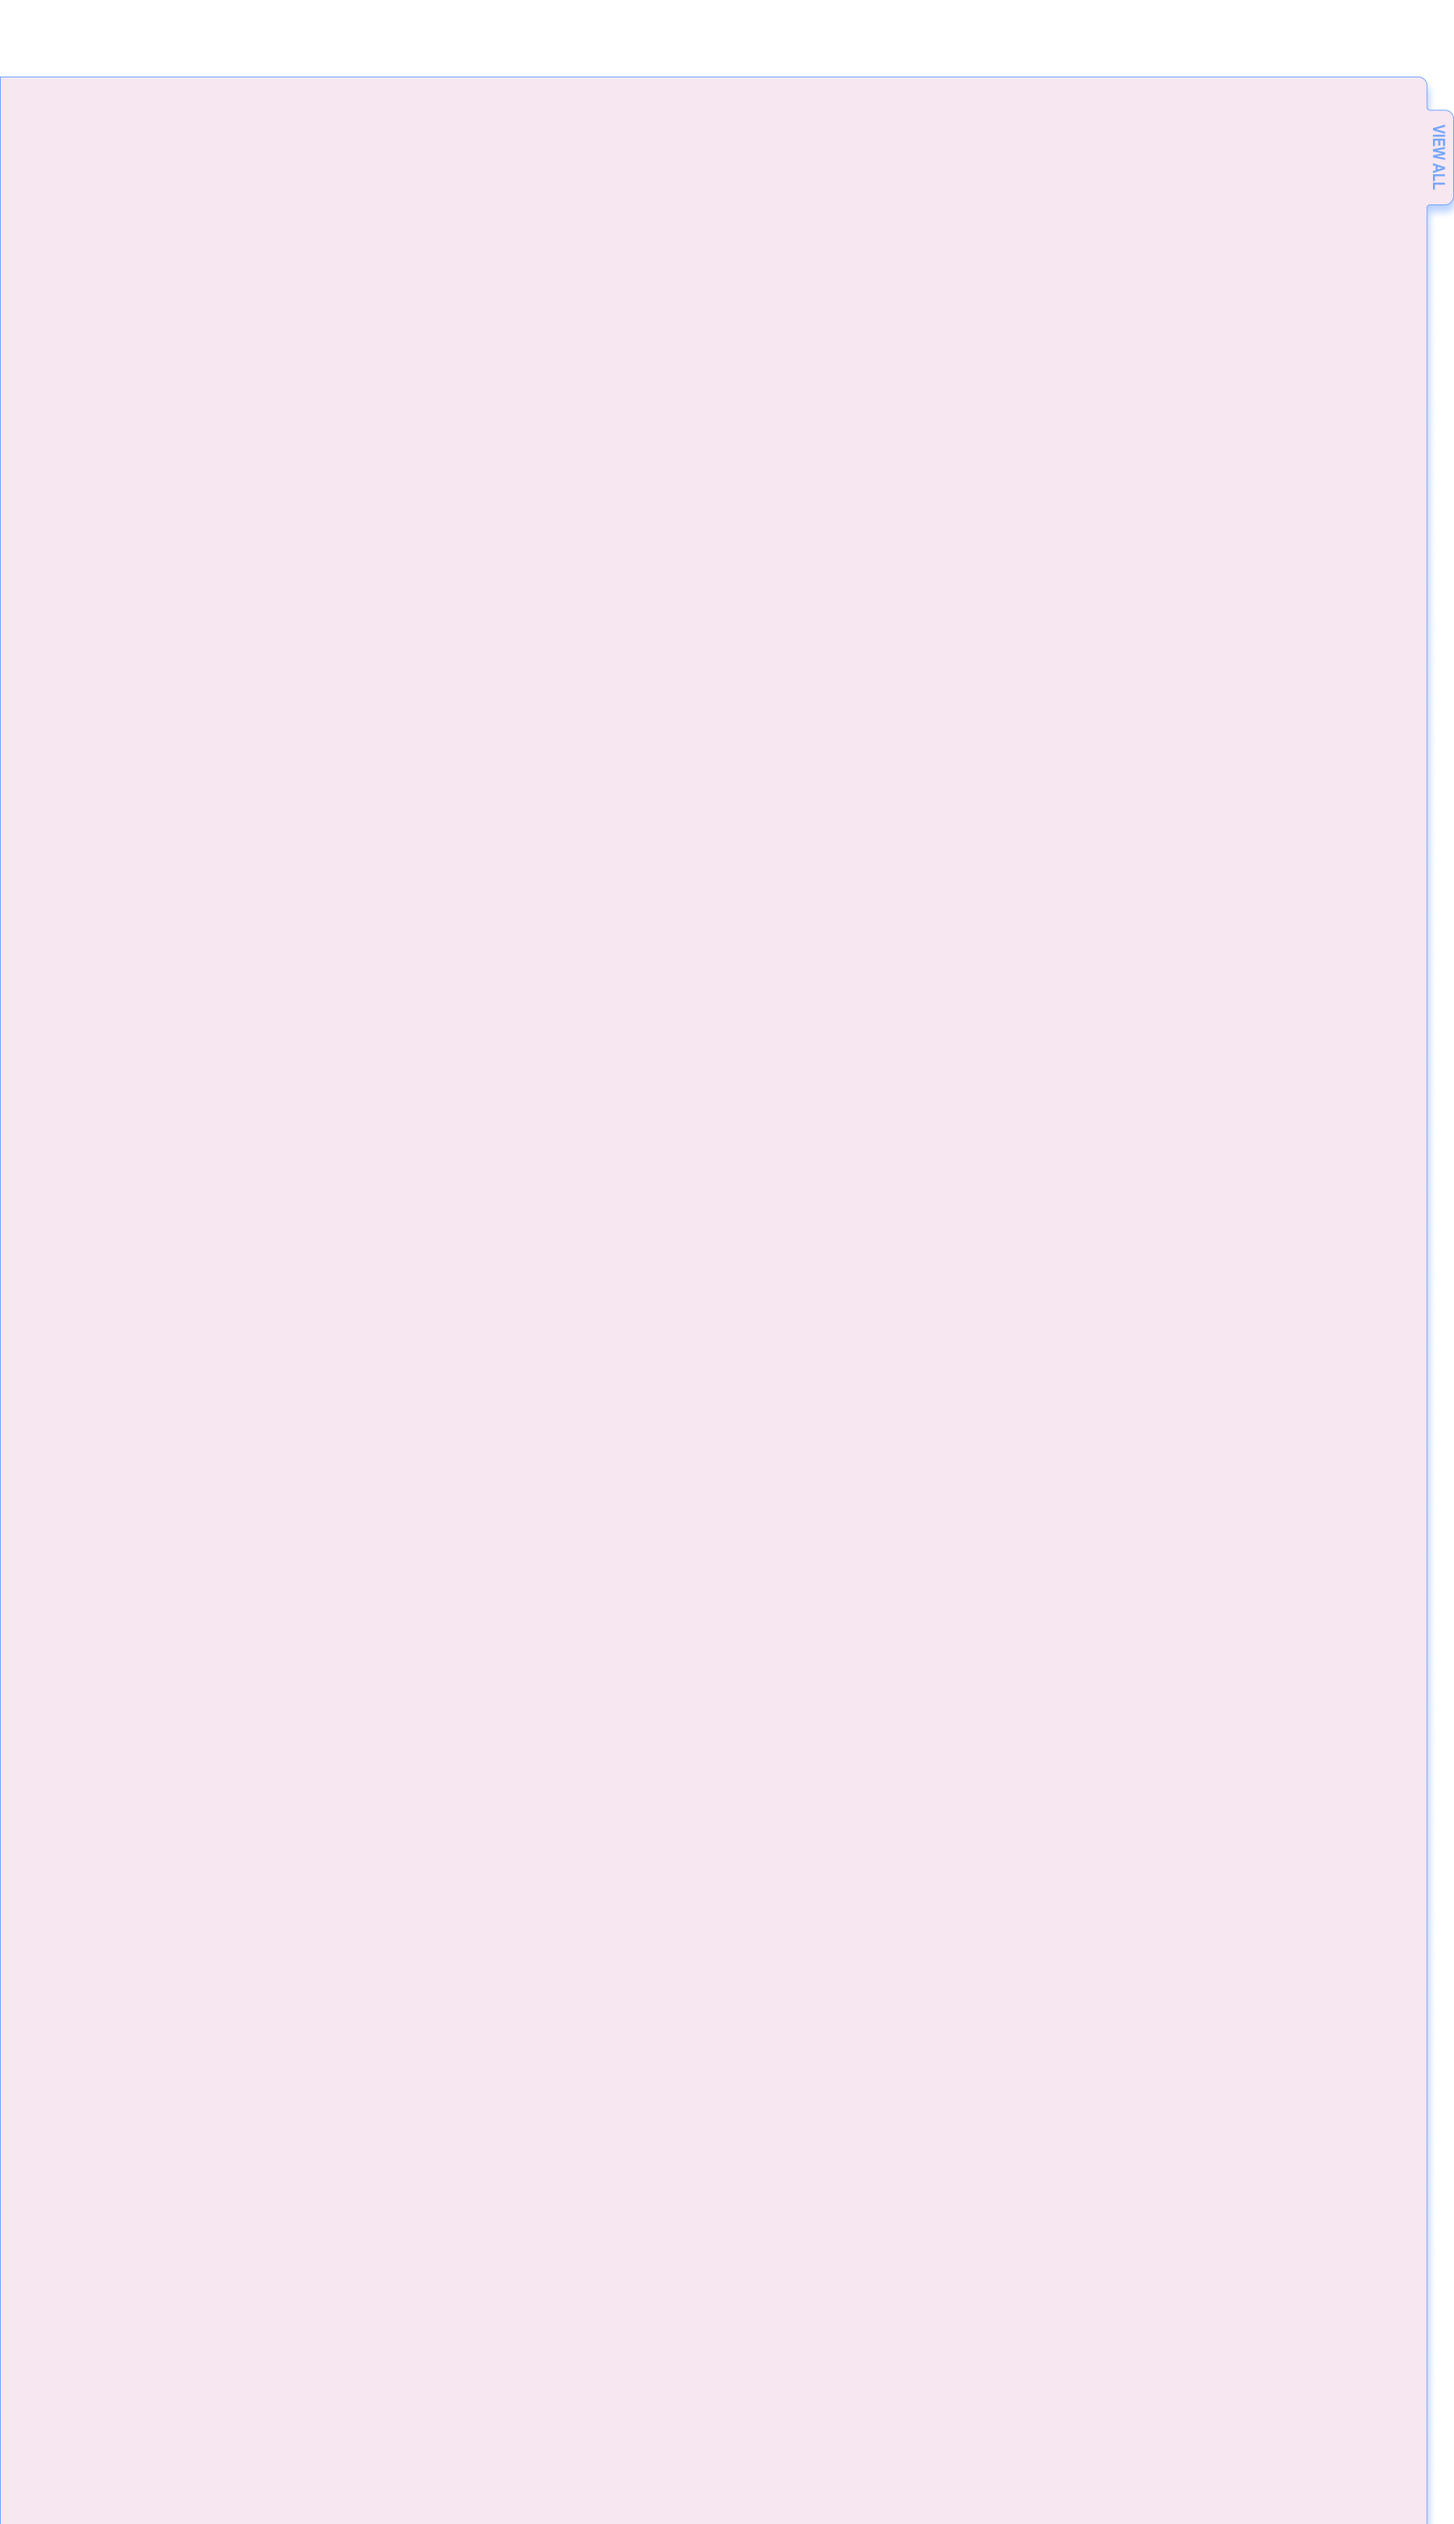
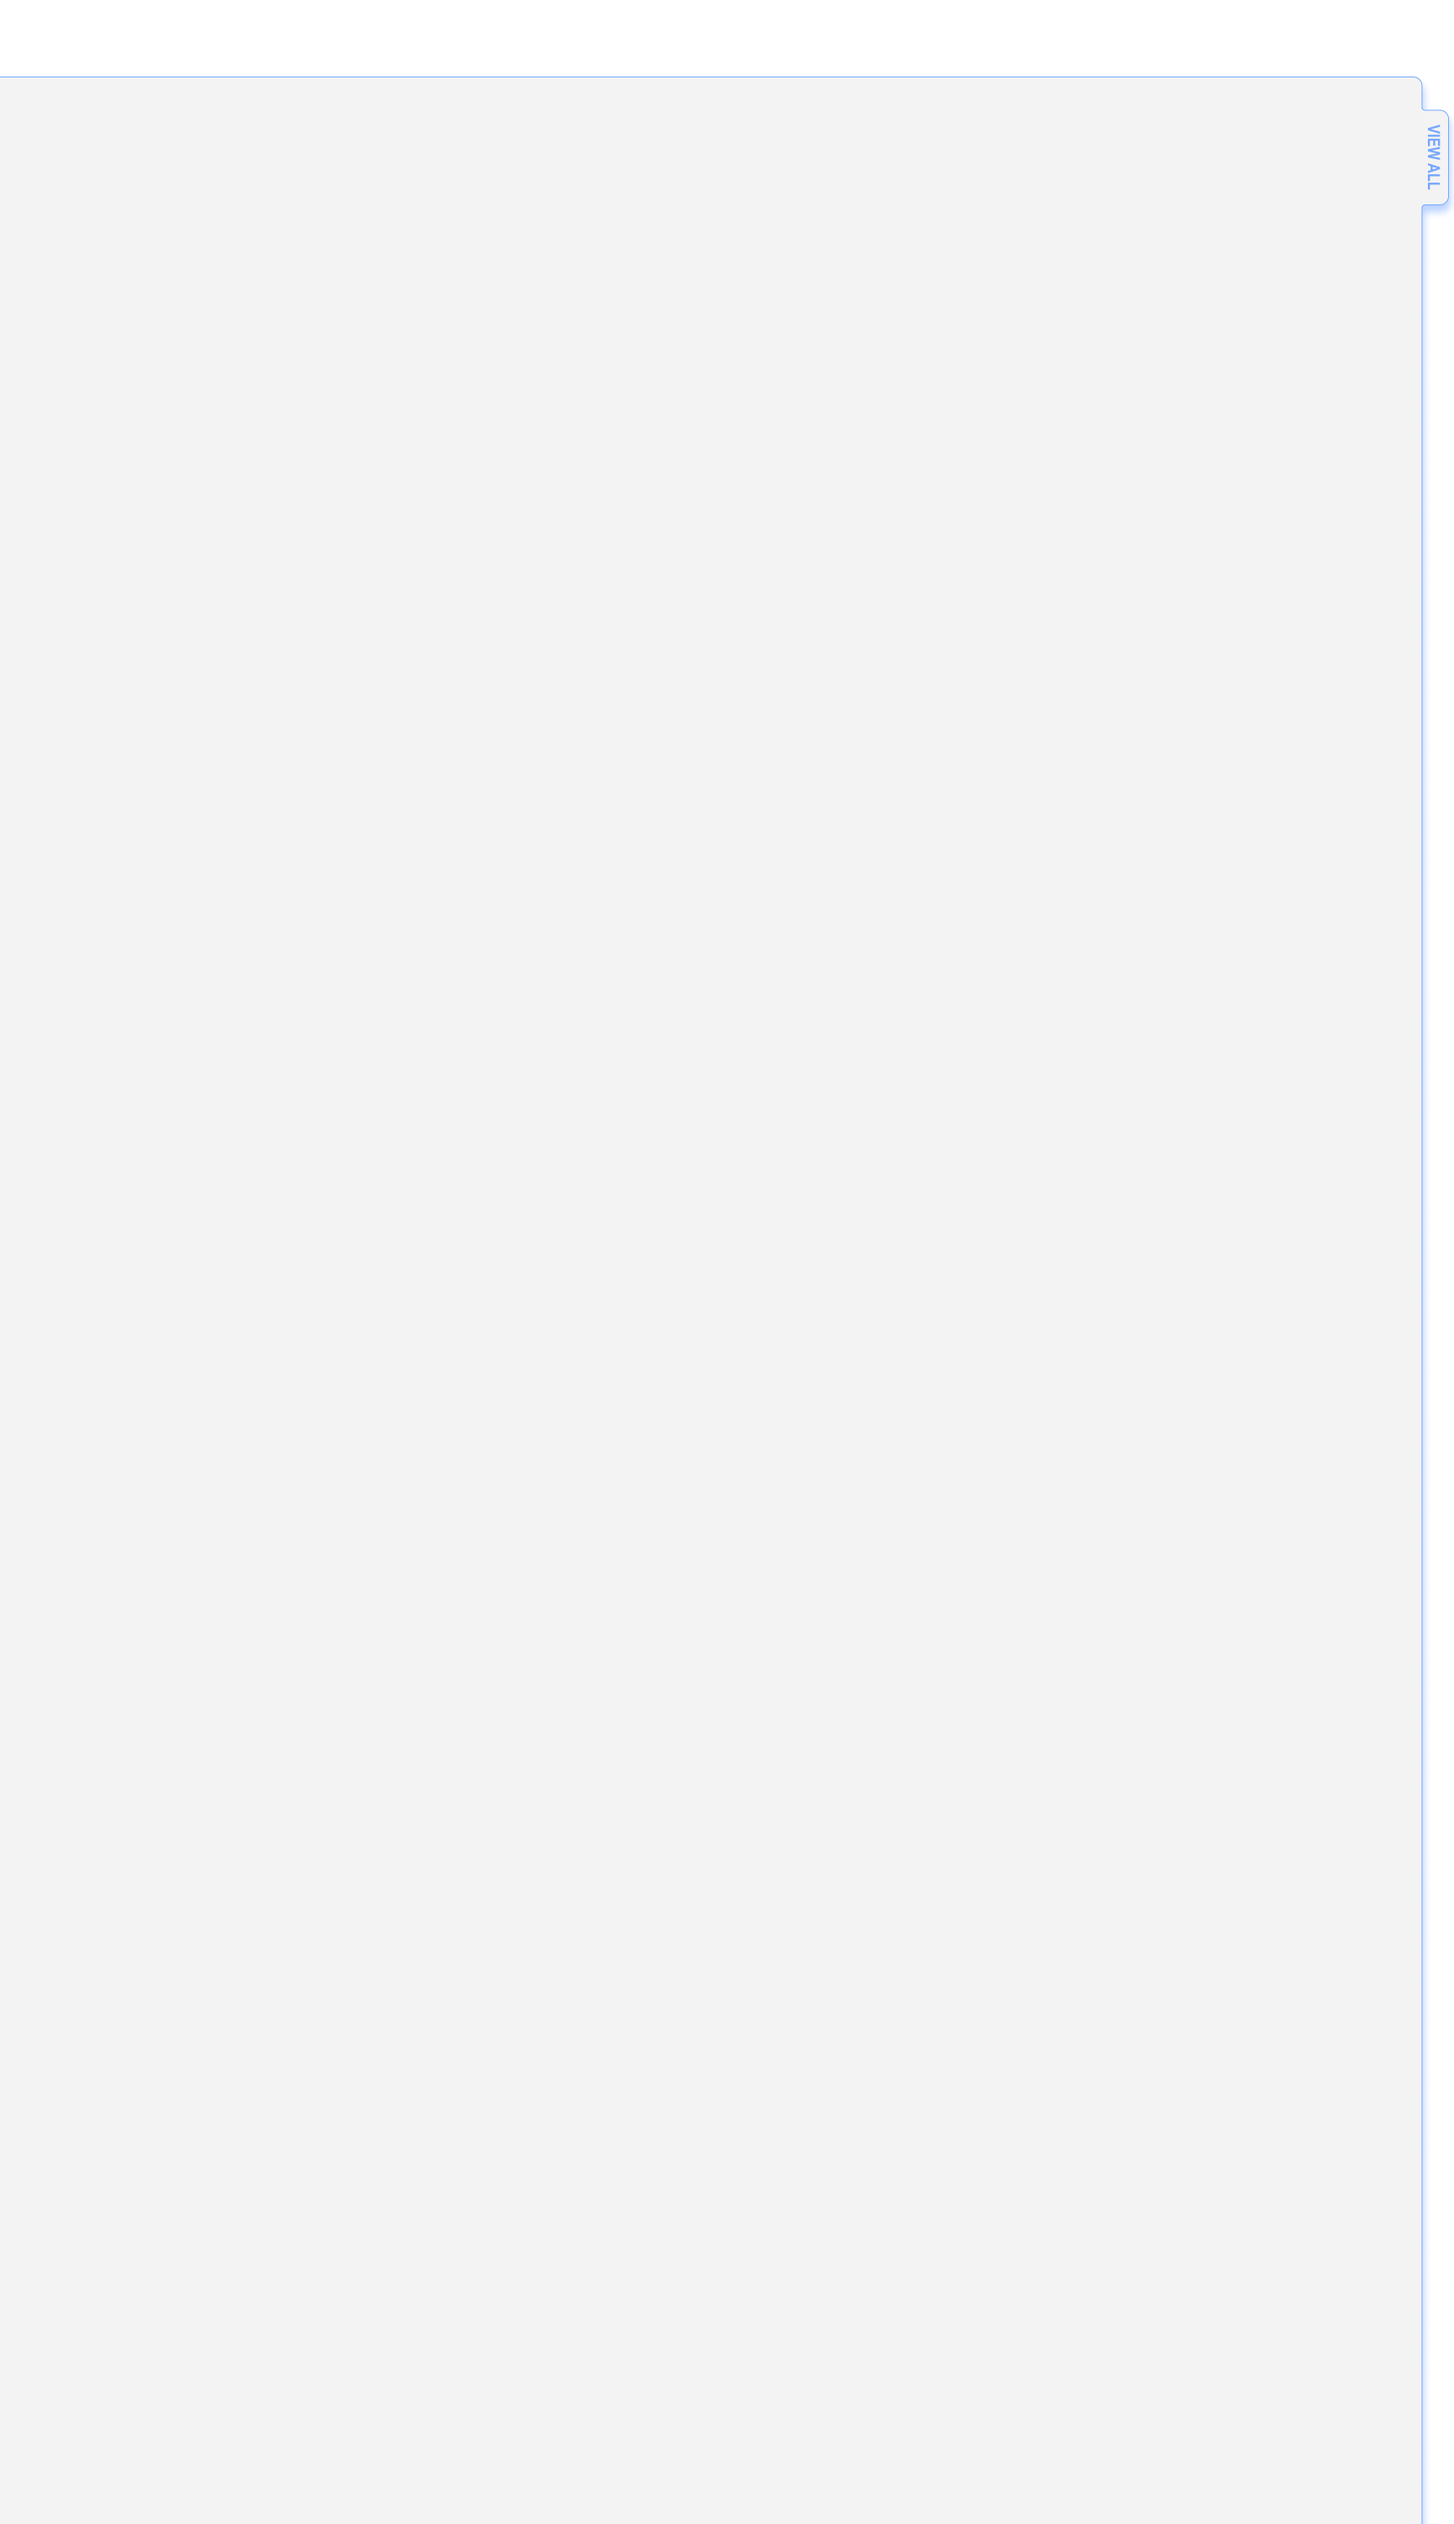
change blue

Changed region(s): [[0.9688, 0.031, 1.0, 1.0]]

diff --git a/styles.css b/styles.css
@@ -3,9 +3,9 @@ body, html {
   padding: 0;
   font-family: sans-serif;
   font-size: 12px;
-  color: rgb(118, 166, 255);
+  color: rgb(154, 178, 223);
   line-height: 1;
-  background-color: rgb(243, 243, 243);
+  background-color: rgb(247, 231, 240);
 }
 
 * {
@@ -17,12 +17,14 @@ body, html {
 }
 
 #th .column {
-  display: flex;
   font-size: 2rem;
   letter-spacing: -0.1rem;
   line-height: 1.1;
-  margin-top: 70px;
+  z-index: 100;
+  background: none;
+  border: none;
 }
+
 
 a {
   color: inherit;
@@ -41,13 +43,13 @@ a {
 #more-info a {
   border-radius: 4px;
   padding: 0 2px;
-  border: 1px solid rgb(118, 166, 255);
+  border: 1px solid rgb(154, 178, 223);
   transition: background-color 0.25s;
 }
 
 
 #more-info a:hover {
-  background-color: rgb(118, 166, 255);
+  background-color: rgb(154, 178, 223);
   color: rgb(247, 231, 240);
 }
 
@@ -55,7 +57,7 @@ a {
   display: flex;
   justify-content: space-between;
   flex-wrap: wrap;
-  border-bottom: 1px solid rgb(118, 166, 255);
+  border-bottom: 1px solid rgb(154, 178, 223);
   padding: 2px 2px;
   font-size: 1rem;
   line-height: 1;
@@ -72,14 +74,22 @@ a {
 
 /* Wraps the background image behind container */
 #container-wrapper {
+  position: relative;
   width: 100vw;
-  background-image: url('assets/view-all-background.png');
-  background-size: cover;
-  background-repeat: no-repeat;
-  background-position: top center;
-  background-attachment: fixed;
-  padding-top: 0px;
+  height: auto;
+  overflow: hidden;
 }
+
+#container-bg {
+  position: fixed;
+  top: 0;
+  left: 0;
+  width: 100vw;
+  height: auto;
+  z-index: 0;
+  pointer-events: none;
+}
+
 
 /* Makes the actual content 80% wide and centered */
 #container {
@@ -113,7 +123,7 @@ a {
 }
 
 #more-info {
-  border-top: 1px solid rgb(118, 166, 255);
+  border-top: 1px solid rgb(154, 178, 223);
   margin: 5px;
   max-width: 600px;
   line-height: 1.15;
@@ -143,7 +153,7 @@ i {
   background-color: black; */
   font-size: 4rem;
   font-style: italic;
-  background-color: rgb(118, 166, 255);
+  background-color: rgb(154, 178, 223);
   color: rgb(247, 231, 240);
   border-radius: 2px;
 }
@@ -171,7 +181,7 @@ i {
   padding-right: 5px;
   white-space: nowrap;
   color: rgb(247, 231, 240);
-  background-color: rgb(118, 166, 255);
+  background-color: rgb(154, 178, 223);
   padding: 2px;
   border-radius: 2px;
 }
@@ -196,7 +206,7 @@ i {
 
   .line:not(#th):hover{
     color: rgb(247, 231, 240);
-    background-color: rgb(118, 166, 255);
+    background-color: rgb(154, 178, 223);
     justify-content: space-around;
     font-size: 2rem;
     letter-spacing: -0.05rem;
@@ -484,10 +494,10 @@ i {
 
 #submission-form input[name="subject line"]::placeholder,
 #submission-form input[name="author"]::placeholder {
-  color:rgb(183, 198, 225);
+  color:rgb(154, 178, 223);
 }
 #submission-form textarea[name="message"]::placeholder {
-  color: rgb(183, 198, 225);
+  color: rgb(154, 178, 223);
 }
 #submission-form input:focus,
 #submission-form textarea:focus {

diff --git a/index.html b/index.html
@@ -17,12 +17,16 @@
   </head>
   <body>
 
-    <!-- ✅ FULL WIDTH background with image -->
     <div id="container-wrapper">
-      <!-- ✅ 80% WIDTH CONTENT on top -->
+      <img 
+        id="container-bg" 
+        src="assets/view-all-background.png" 
+        alt="view all background" 
+        oncontextmenu="return false;"
+      />
       <div id="container">
         <div id="header">
-          <a href="https://enyajpan.github.io/dp-test/" target="_top">In case of loss, please return to:</a>
+          <a href="https://enyajpan.github.io/in-case-of-loss/" target="_top">In case of loss, please return to:</a>
         </div>
         
         <div id="th" class="line">
@@ -32,9 +36,10 @@
           <div class="column message">Message</div>
           <div class="column label">Label</div> 
           <div class="column timestamp">Timestamp</div>
-        </div>
+        </div>        
       </div>
     </div>
+    
 
     <div id="submission-wrapper">
       <img 
